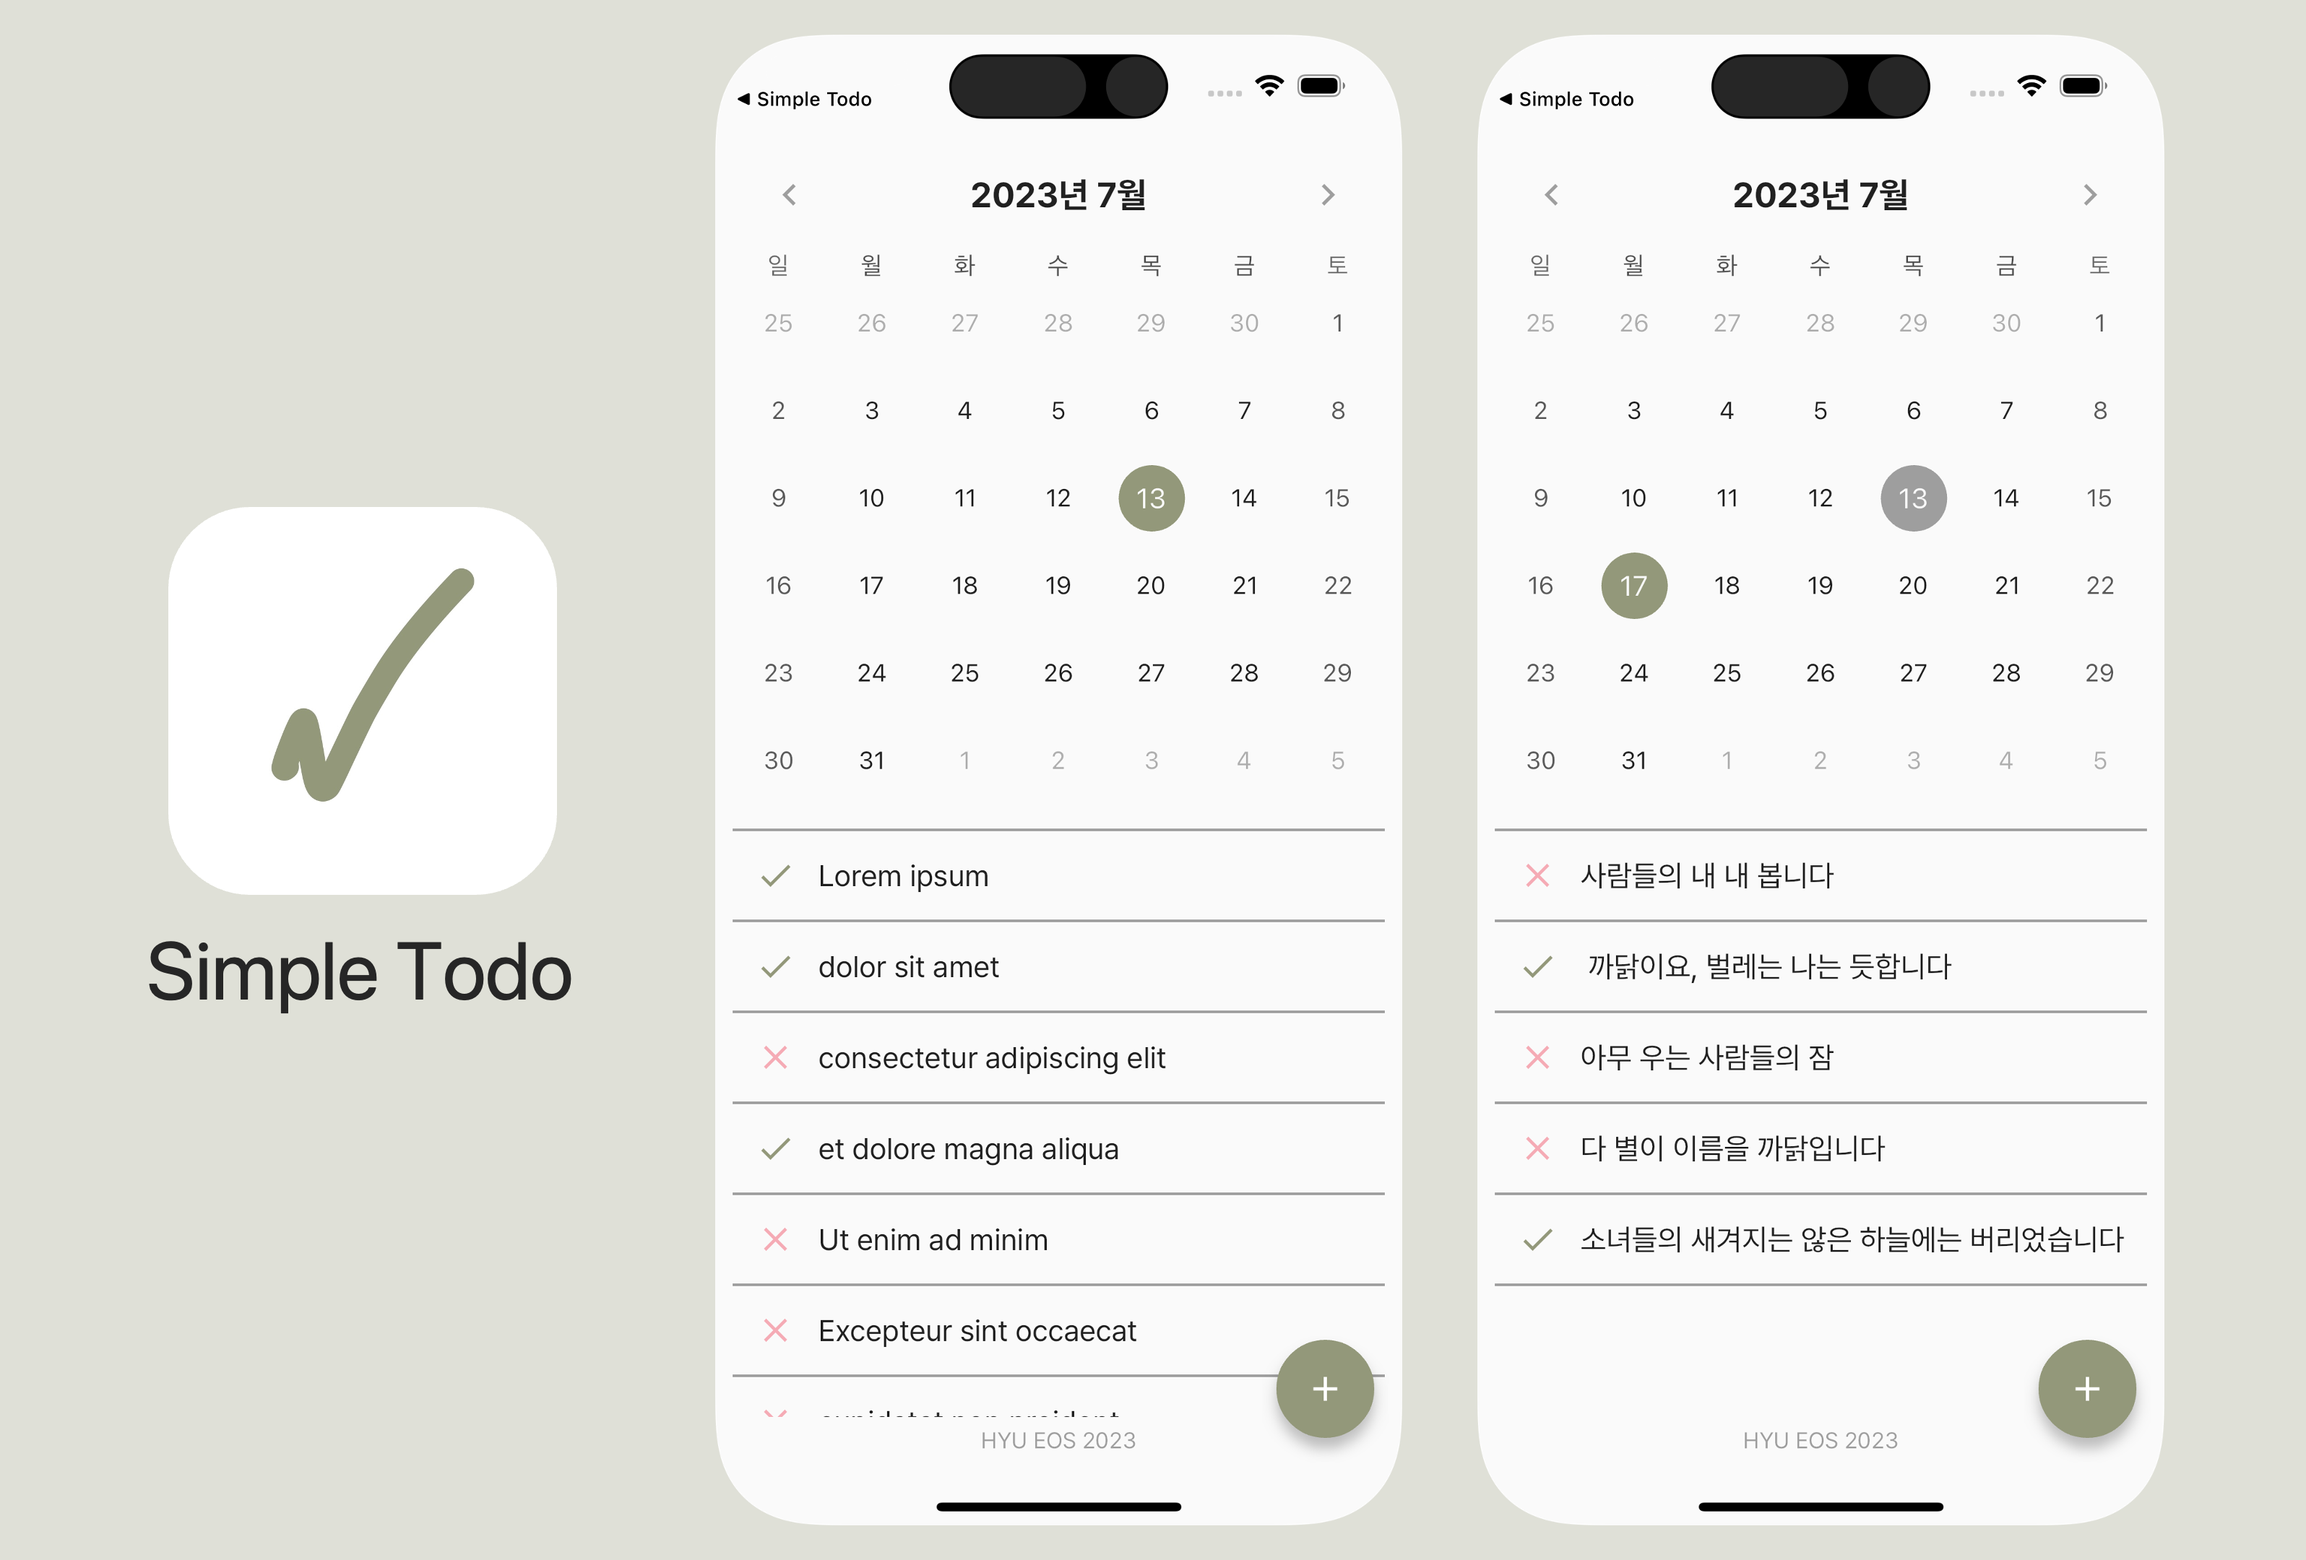
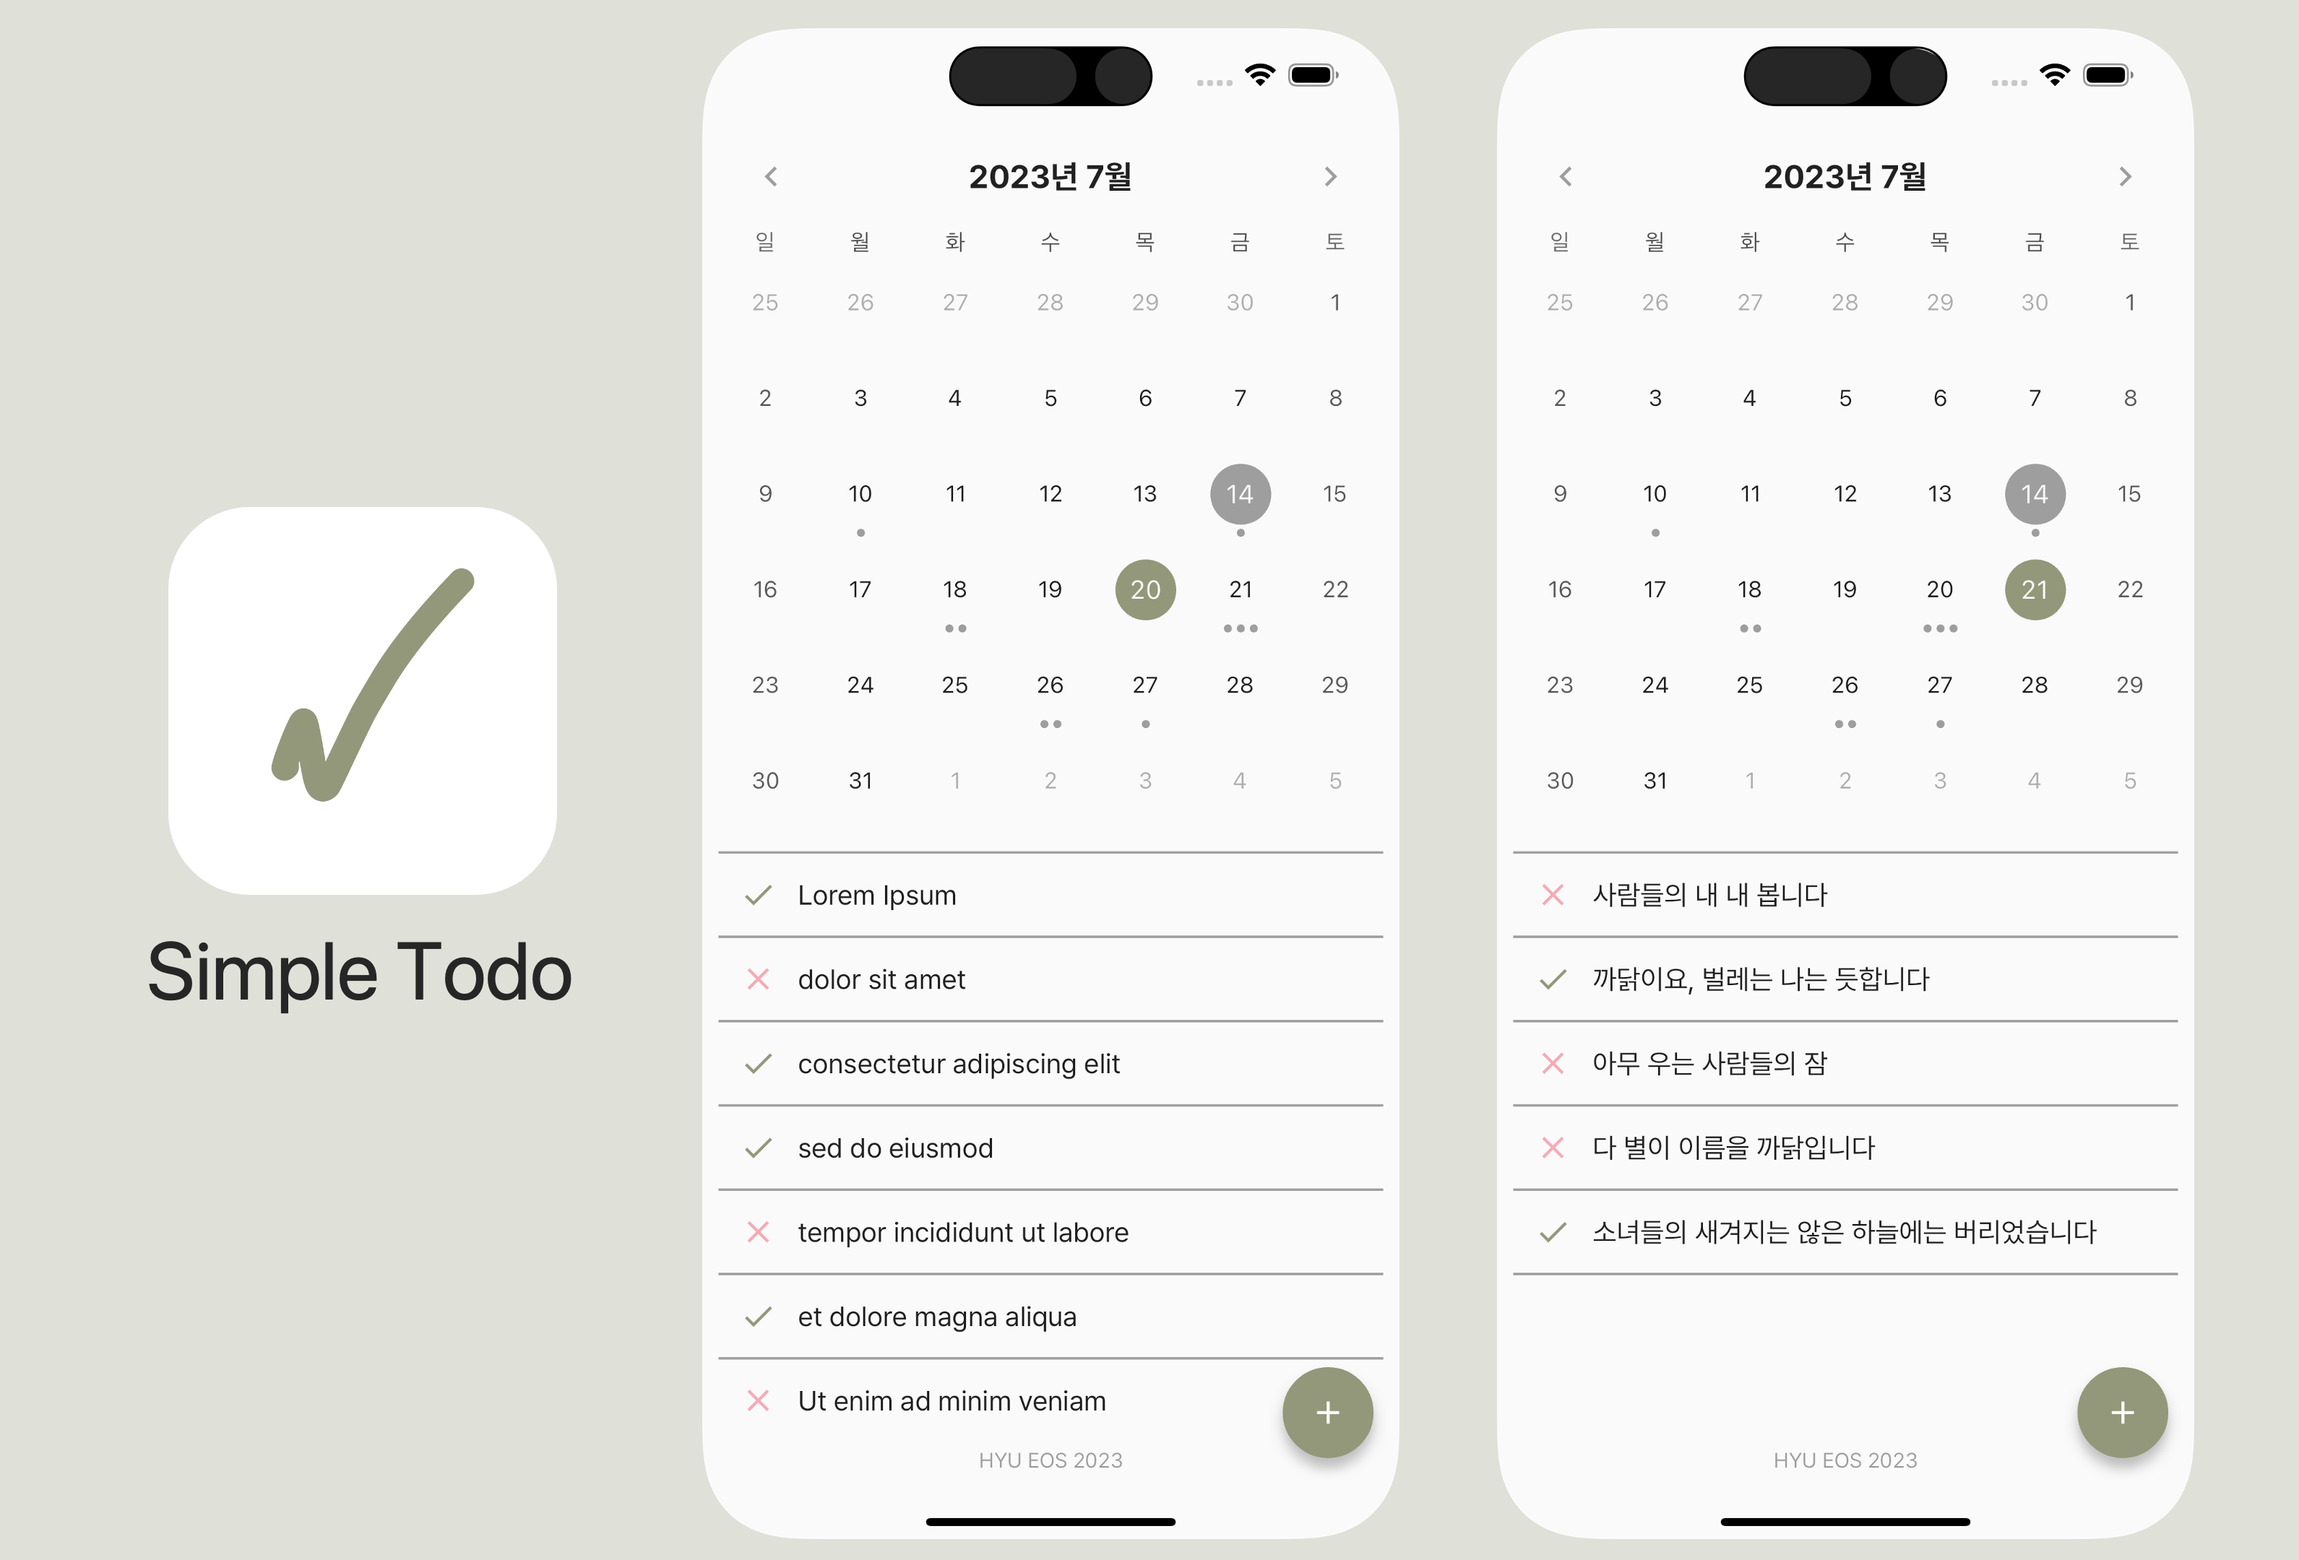
1.1.0

diff --git a/lib/screen/home_screen.dart b/lib/screen/home_screen.dart
@@ -45,38 +45,47 @@ class _HomeScreenState extends State<HomeScreen> {
       body: SafeArea(
         child: Padding(
           padding: const EdgeInsets.symmetric(horizontal: 10),
-          child: Column(
-            children: [
-              CustomCalendar(
-                  focusedDay: _focusedDate,
-                  onDaySelected: (DateTime selectedDate, DateTime focusedDate) {
-                    setState(() {
-                      _selectedDate = selectedDate;
-                      _focusedDate = selectedDate;
-                      // _focusedDay = selectedDay;
-                    });
-                  },
-                  selectedDayPredicate: (DateTime date) {
-                    return date.year == _selectedDate.year &&
-                        date.month == _selectedDate.month &&
-                        date.day == _selectedDate.day;
-                  }),
-              const CustomDivider(),
-              Expanded(
-                child: StreamBuilder<List<TodoTableData>>(
-                    stream: GetIt.I<LocalDatabase>().watchTodos(),
-                    builder: (context, snapshot) {
-                      List<TodoTableData> todos = [];
+          child: StreamBuilder<List<TodoTableData>>(
+              stream: GetIt.I<LocalDatabase>().watchTodos(),
+              builder: (context, snapshot) {
+                // TodoList for selectedDate (used in ListView)
+                List<TodoTableData> selectedTodos = [];
+                if (snapshot.hasData) {
+                  selectedTodos = snapshot.data!
+                      .where((todo) => todo.date.toUtc() == _selectedDate)
+                      .toList();
+                }
 
-                      if (snapshot.hasData) {
-                        todos = snapshot.data!
-                            .where((todo) => todo.date.toUtc() == _selectedDate)
-                            .toList();
-                      }
-                      return ListView.builder(
-                        itemCount: todos.length,
+                return Column(
+                  children: [
+                    CustomCalendar(
+                        focusedDay: _focusedDate,
+                        eventLoader: (DateTime date) {
+                          if (snapshot.hasData && date != _selectedDate) {
+                            final length = snapshot.data!
+                                .where((todo) => todo.date.toUtc() == date)
+                                .length;
+                            return List.generate(length, (_) => true);
+                          }
+                          return [];
+                        },
+                        onDaySelected: (DateTime selectedDate, _) {
+                          setState(() {
+                            _selectedDate = selectedDate;
+                            _focusedDate = selectedDate;
+                          });
+                        },
+                        selectedDayPredicate: (DateTime date) {
+                          return date.year == _selectedDate.year &&
+                              date.month == _selectedDate.month &&
+                              date.day == _selectedDate.day;
+                        }),
+                    const CustomDivider(),
+                    Expanded(
+                      child: ListView.builder(
+                        itemCount: selectedTodos.length,
                         itemBuilder: (context, index) {
-                          final todo = todos[index];
+                          final todo = selectedTodos[index];
                           return Dismissible(
                             key: ObjectKey(todo.id),
                             direction: DismissDirection.endToStart,
@@ -90,22 +99,22 @@ class _HomeScreenState extends State<HomeScreen> {
                                 finished: todo.finished),
                           );
                         },
-                      );
-                    }),
-              ),
-              const Padding(
-                padding: EdgeInsets.symmetric(vertical: 6.0),
-                child: Text(
-                  "HYU EOS 2023",
-                  style: TextStyle(
-                    fontSize: 13,
-                    color: Colors.grey,
-                    fontFamily: 'Pretendard',
-                  ),
-                ),
-              )
-            ],
-          ),
+                      ),
+                    ),
+                    const Padding(
+                      padding: EdgeInsets.symmetric(vertical: 6.0),
+                      child: Text(
+                        "HYU EOS 2023",
+                        style: TextStyle(
+                          fontSize: 13,
+                          color: Colors.grey,
+                          fontFamily: 'Pretendard',
+                        ),
+                      ),
+                    )
+                  ],
+                );
+              }),
         ),
       ),
     );

diff --git a/lib/widget/custom_calendar.dart b/lib/widget/custom_calendar.dart
@@ -1,17 +1,20 @@
 import 'package:flutter/material.dart';
 import 'package:table_calendar/table_calendar.dart';
+
 import 'package:simple_todo/constant/color_palette.dart' as palette;
 
 class CustomCalendar extends StatefulWidget {
   final DateTime focusedDay;
   final void Function(DateTime selectedDay, DateTime focusedDay) onDaySelected;
   final bool Function(DateTime day)? selectedDayPredicate;
+  final List<bool> Function(DateTime day)? eventLoader;
 
   const CustomCalendar({
     Key? key,
     required this.focusedDay,
     required this.onDaySelected,
     required this.selectedDayPredicate,
+    required this.eventLoader,
   }) : super(key: key);
 
   @override
@@ -21,44 +24,57 @@ class CustomCalendar extends StatefulWidget {
 class _CustomCalendarState extends State<CustomCalendar> {
   @override
   Widget build(BuildContext context) {
-    return TableCalendar(
-      locale: 'ko_KR',
-      focusedDay: widget.focusedDay,
-      firstDay: DateTime(1945),
-      lastDay: DateTime(2200),
-      headerStyle: const HeaderStyle(
-        formatButtonVisible: false,
-        titleCentered: true,
-        titleTextStyle: TextStyle(
-          fontFamily: 'Pretendard',
-          fontSize: 20,
-          fontWeight: FontWeight.bold,
-        ),
-        leftChevronIcon: Icon(
-          Icons.chevron_left,
-          color: Colors.grey,
-          size: 25,
-        ),
-        rightChevronIcon: Icon(
-          Icons.chevron_right,
-          color: Colors.grey,
-          size: 25,
-        ),
-      ),
-      rowHeight: 50,
-      onDaySelected: widget.onDaySelected,
-      selectedDayPredicate: widget.selectedDayPredicate,
-      calendarStyle: const CalendarStyle(
-        isTodayHighlighted: true,
-        todayDecoration: BoxDecoration(
-          color: Colors.grey,
-          shape: BoxShape.circle,
-        ),
-        selectedDecoration: BoxDecoration(
-          color: palette.color1,
-          shape: BoxShape.circle,
-        ),
-      ),
-    );
+    return FutureBuilder<Object>(
+        future: null,
+        builder: (context, snapshot) {
+          return TableCalendar(
+            locale: 'ko_KR',
+            focusedDay: widget.focusedDay,
+            firstDay: DateTime(1945),
+            lastDay: DateTime(2200),
+            eventLoader: widget.eventLoader,
+            headerStyle: const HeaderStyle(
+              formatButtonVisible: false,
+              titleCentered: true,
+              titleTextStyle: TextStyle(
+                fontFamily: 'Pretendard',
+                fontSize: 20,
+                fontWeight: FontWeight.bold,
+              ),
+              leftChevronIcon: Icon(
+                Icons.chevron_left,
+                color: Colors.grey,
+                size: 25,
+              ),
+              rightChevronIcon: Icon(
+                Icons.chevron_right,
+                color: Colors.grey,
+                size: 25,
+              ),
+            ),
+            rowHeight: 59,
+            onDaySelected: widget.onDaySelected,
+            selectedDayPredicate: widget.selectedDayPredicate,
+            calendarStyle: const CalendarStyle(
+              cellMargin: EdgeInsets.all(10.5),
+              isTodayHighlighted: true,
+              todayDecoration: BoxDecoration(
+                color: Colors.grey,
+                shape: BoxShape.circle,
+              ),
+              selectedDecoration: BoxDecoration(
+                color: palette.color1,
+                shape: BoxShape.circle,
+              ),
+              markerDecoration: BoxDecoration(
+                color: Colors.grey,
+                shape: BoxShape.circle,
+              ),
+              markerMargin: EdgeInsets.symmetric(horizontal: 1.5, vertical: 6),
+              markerSize: 5,
+              markersMaxCount: 3,
+            ),
+          );
+        });
   }
 }

diff --git a/README.md b/README.md
@@ -1,11 +1,40 @@
 # Simple Todo
 
-A simple **Todo** App
+A **simple Todo App** with a minimalistic design, built using Flutter.
 
-> Developed for EOS 2023 ESC Basic
+> Developed for EOS 2023 ESC (Basic)
 
 ![](screenshot/a.png)
 
-## About
+## Features
 
-Flutter & SQlite
+- **Create todos** through the floatingActionButton and modalBottomSheet.
+- **Delete todo** by simply swiping the todo card (utilizing the Dismissible widget).
+- **Check the overall todos** at a glance through the dot marker on the calendar.
+- ***Automatically* save todos** in the database (SQLite) using the Drift package.
+
+
+## Folder Structure
+
+```txt
+lib/
+├── constant/                   # Constants
+│   ├── color_palette.dart          # Contains color constants used throughout the app
+│   └── custom_divider.dart         # Custom divider widget used for todo cards
+├── model/                      # Database model
+│   └── todo_table.dart             # Defines the Todo model for interacting with the database
+├── screen/                     # Screens of the app
+│   └── home_screen.dart            # Home screen displaying the calendar and todo list
+├── widget/                     # Fundamental or reusable widgets
+│   ├── custom_calendar.dart        # Custom calendar widget for selecting due dates
+│   ├── todo_card.dart              # Widget for displaying a single todo card
+│   └── todo_add_sheet.dart         # Bottom sheet for adding new todos
+├── database.dart               # Contains the database initialization and setup
+├── database.g.dart             # Generated file for database operations
+└── main.dart                   # Entry point of the app
+
+asset/font/                     
+├── Pretendard-Regular.otf      # Regular font
+└── Pretendard-Bold.otf         # Bold font
+```
+
